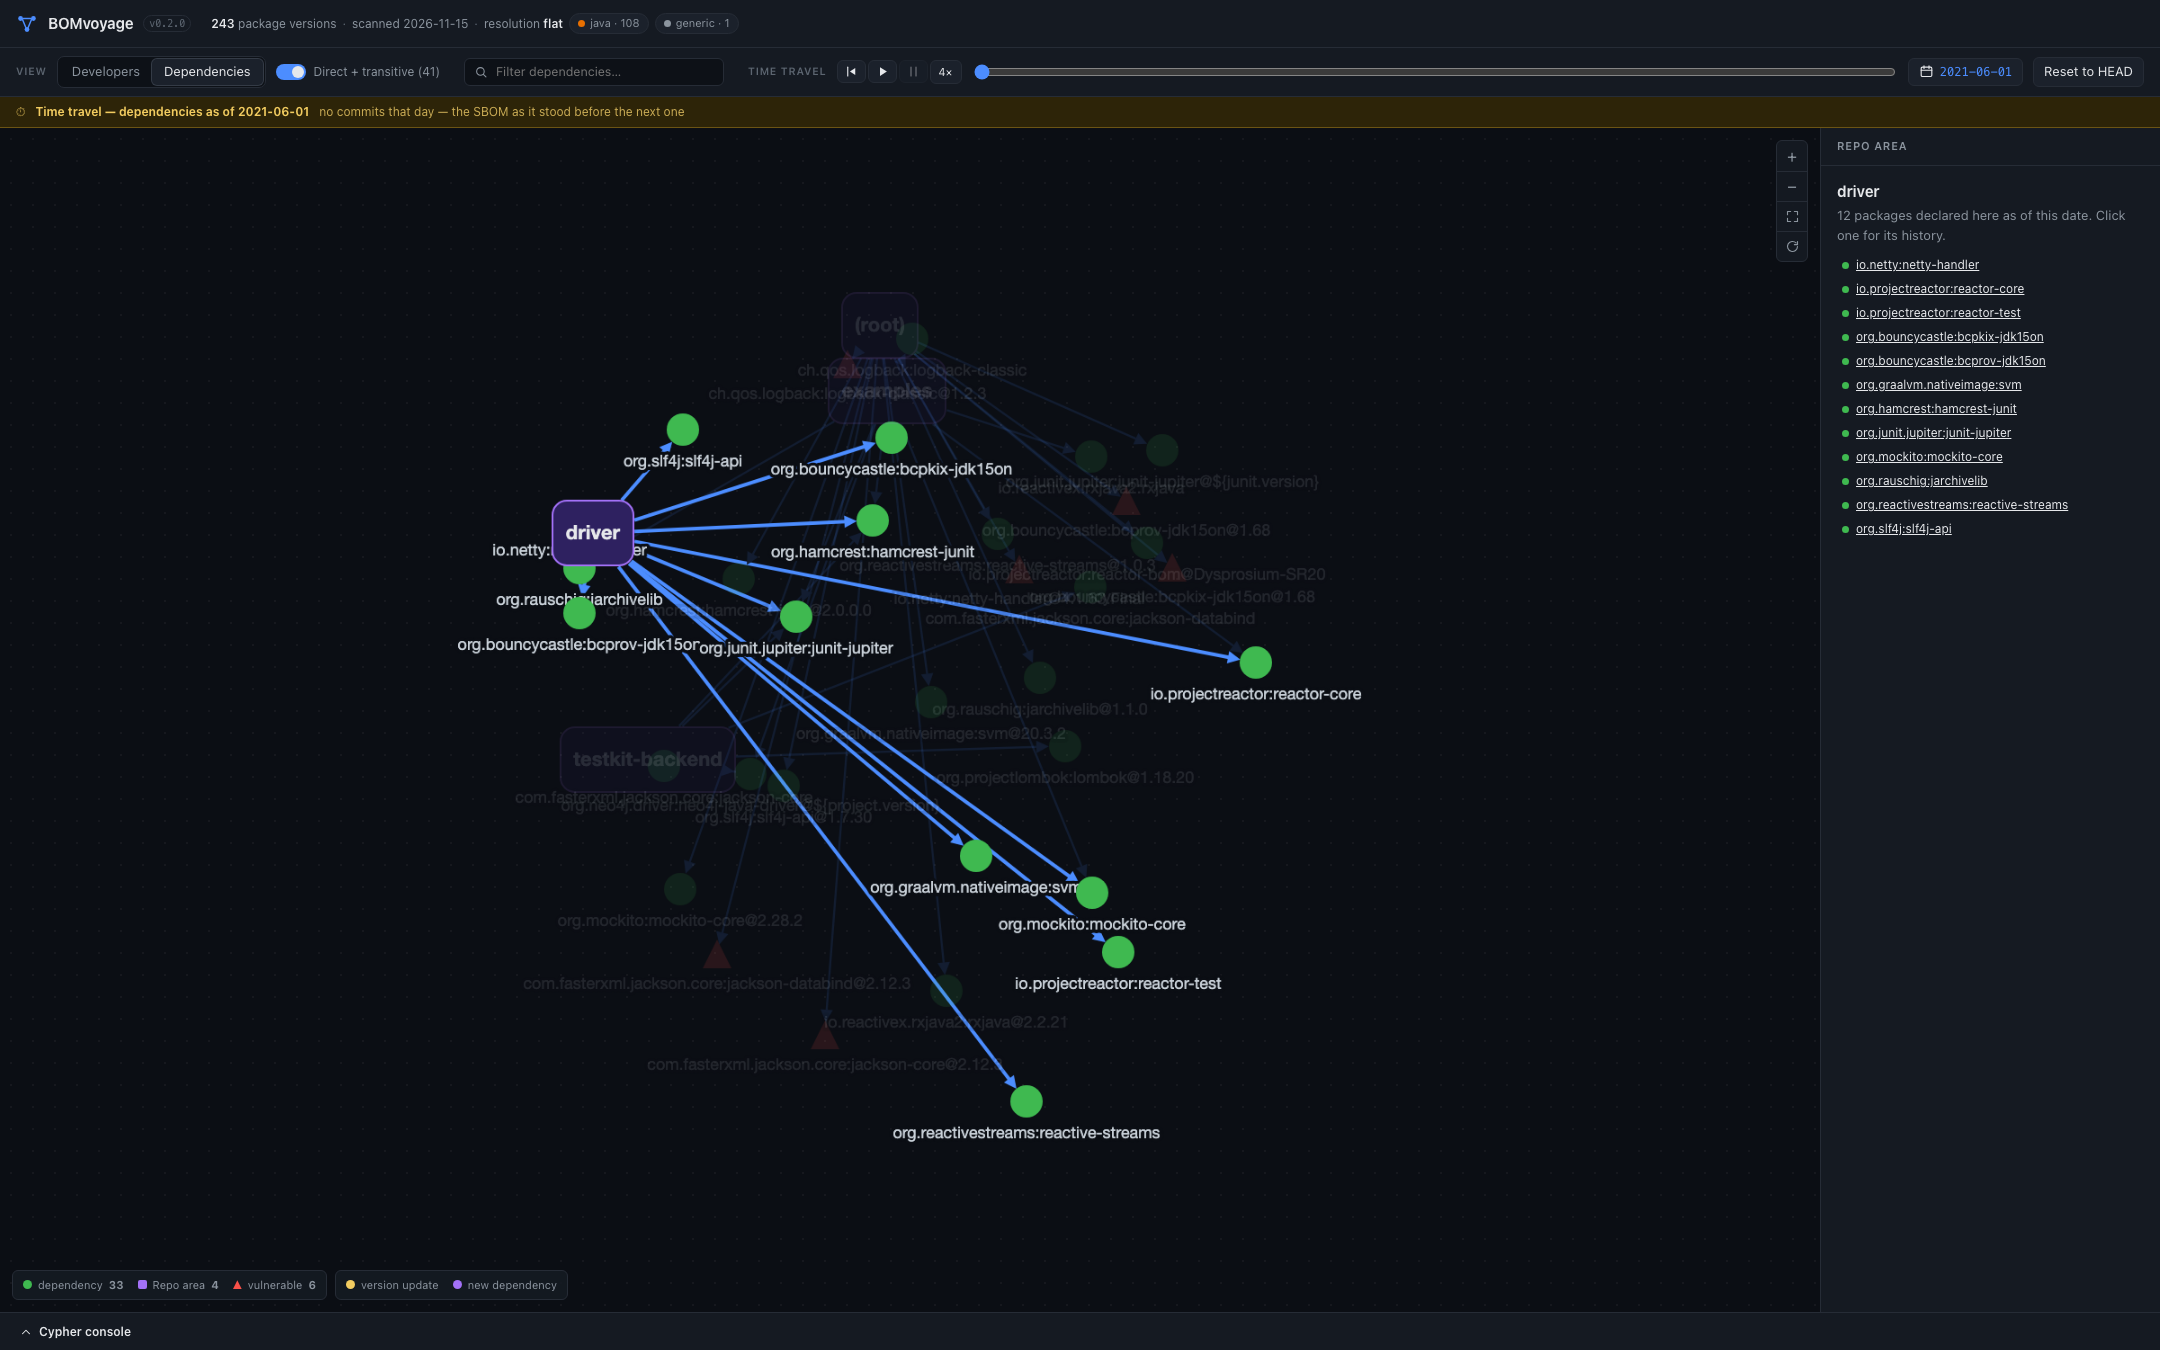
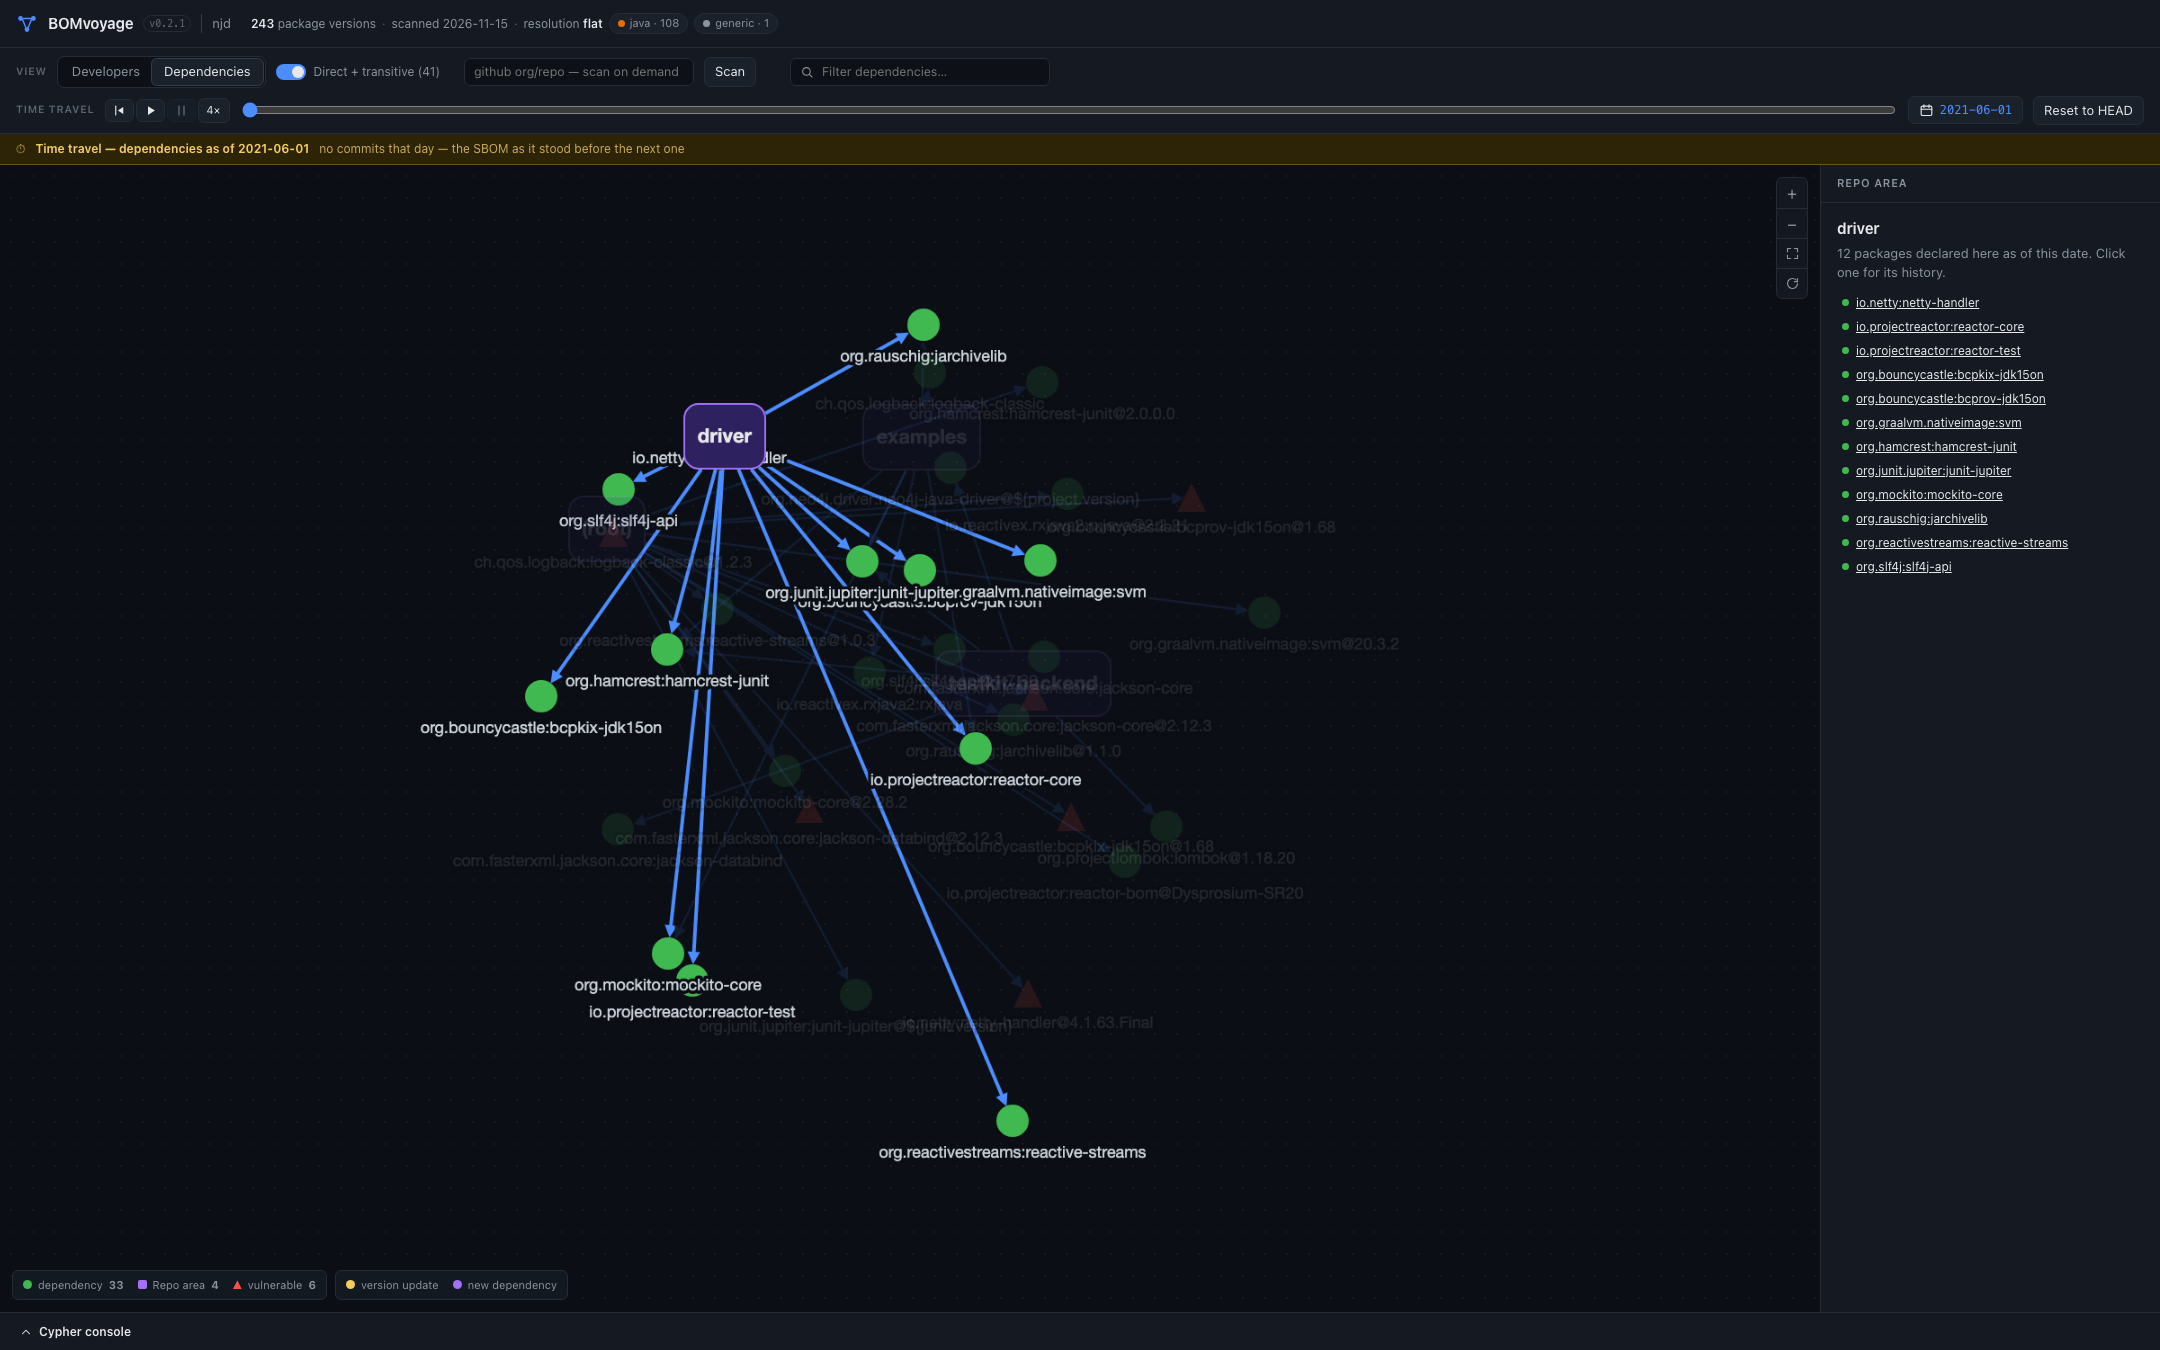
fix(ui): time travel moves to its own toolbar row
The repo box squeezed the time-travel controls off the visible screen.
The toolbar now wraps and #travel-group takes a full second line:
view + repo box + search on row one, full-width time travel on row
two. Screenshots + GIF regenerated for the new layout.

Changed region(s): [[0.1861, 0.2178, 0.6204, 0.8711], [0.0, 0.0, 1.0, 0.4356], [0.3102, 0.0, 0.3412, 0.0311]]

diff --git a/src/ui/style.css b/src/ui/style.css
@@ -131,11 +131,17 @@ kbd {
 #toolbar {
   display: flex;
   align-items: center;
-  gap: 24px;
+  flex-wrap: wrap;      /* the time-travel row wraps beneath */
+  gap: 8px 24px;
   padding: 8px 16px;
   flex: none;
   border-bottom: 1px solid var(--border);
   background: var(--panel);
+}
+/* Time travel always lives on its own full-width line: the repo box and
+   search squeeze the first row, never the slider. */
+#travel-group {
+  flex-basis: 100%;
 }
 .tool-group { display: flex; align-items: center; gap: 10px; }
 .tool-group.grow { flex: 1; min-width: 0; }

diff --git a/src/ui/index.html b/src/ui/index.html
@@ -47,7 +47,7 @@
       <button type="button" id="search-clear" title="Clear (Esc)" hidden>×</button>
     </div>
   </div>
-  <div class="tool-group grow">
+  <div class="tool-group grow" id="travel-group">
     <span class="tool-label">Time travel</span>
     <span id="play-controls">
       <button id="rewind-btn" type="button" class="icon-btn" title="Rewind to the oldest day">
